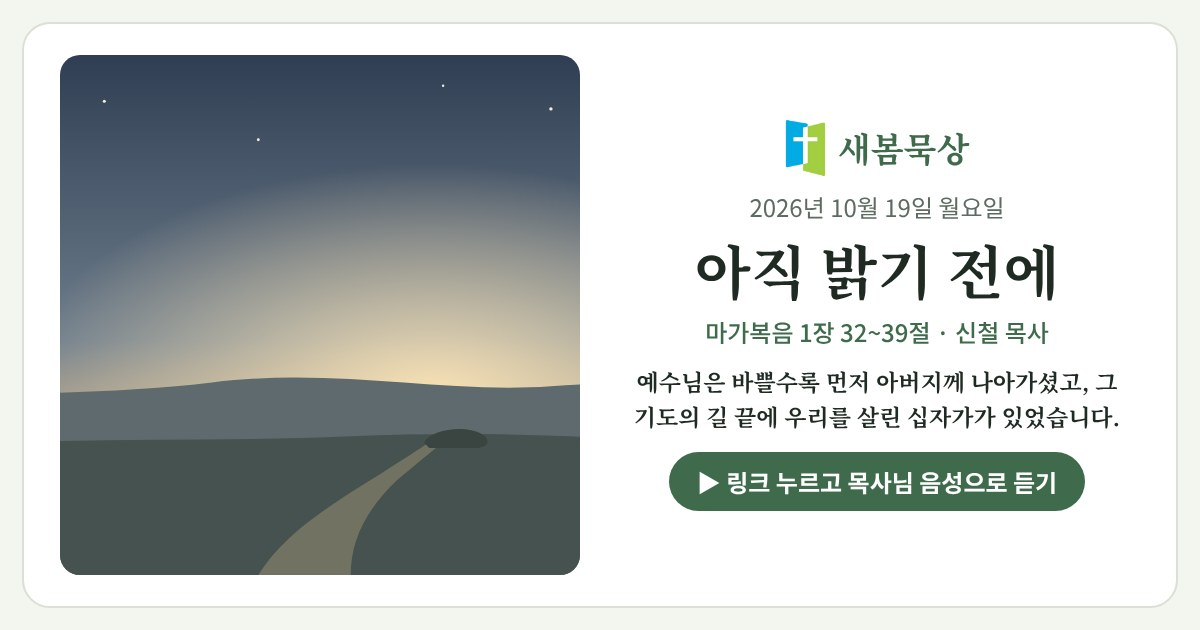
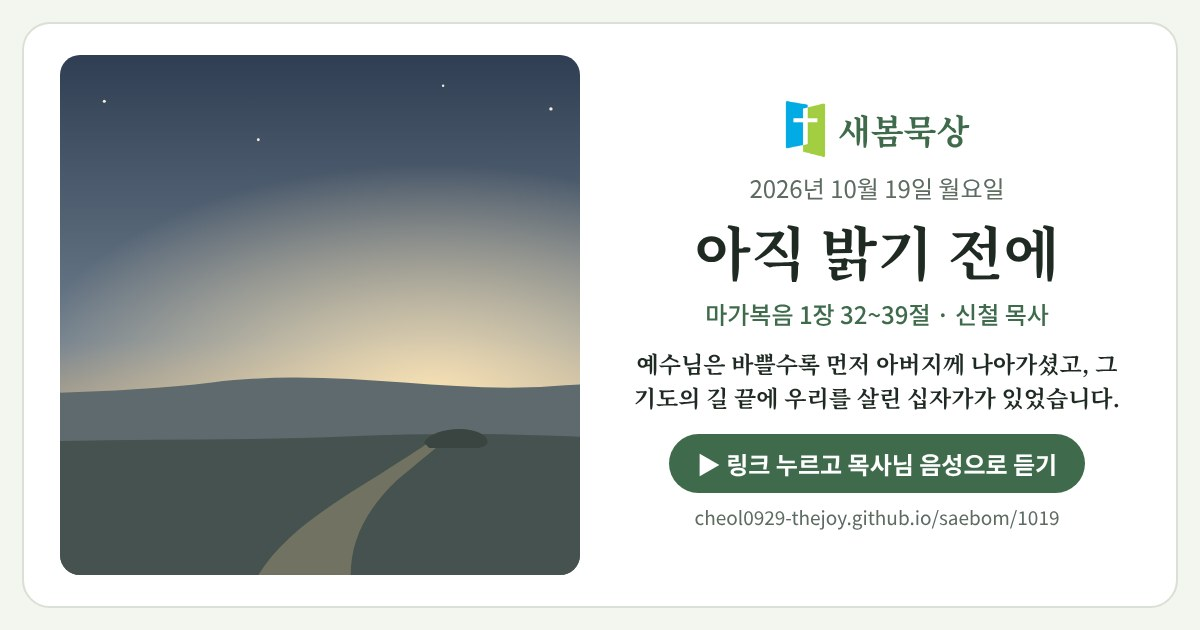
미리보기 글자 줄이고 카드에 주소 표시
Claude-Session: https://claude.ai/code/session_015QLrzJ3eQQwXRfgxaMfB7k

Changed region(s): [[0.5242, 0.1508, 0.925, 0.8444]]

diff --git a/1020.html b/1020.html
@@ -1,11 +1,9 @@
 <!doctype html><html lang="ko"><head><meta charset="utf-8">
 <meta name="viewport" content="width=device-width,initial-scale=1">
-<title>새봄묵상 · 그러나 나는 (10.20)</title>
-<meta name="description" content="2026년 10월 20일 화요일 하박국 3장 16~19절 · 모든 것이 없을지라도 기뻐할 수 있는 이유는, 십자가로 나를 붙드신 하나님은 결코 없어지지 않으시기 때문입니다.">
+<title>새봄묵상 10.20</title>
 <meta property="og:type" content="article">
 <meta property="og:site_name" content="새봄묵상">
-<meta property="og:title" content="새봄묵상 · 그러나 나는 (10.20)">
-<meta property="og:description" content="2026년 10월 20일 화요일 하박국 3장 16~19절 · 모든 것이 없을지라도 기뻐할 수 있는 이유는, 십자가로 나를 붙드신 하나님은 결코 없어지지 않으시기 때문입니다.">
+<meta property="og:title" content="새봄묵상 10.20">
 <meta property="og:image" content="https://cheol0929-thejoy.github.io/saebom/1020/share.jpg">
 <meta property="og:image:secure_url" content="https://cheol0929-thejoy.github.io/saebom/1020/share.jpg">
 <meta property="og:image:type" content="image/jpeg">

diff --git a/1020/index.html b/1020/index.html
@@ -1,11 +1,9 @@
 <!doctype html><html lang="ko"><head><meta charset="utf-8">
 <meta name="viewport" content="width=device-width,initial-scale=1">
-<title>새봄묵상 · 그러나 나는 (10.20)</title>
-<meta name="description" content="2026년 10월 20일 화요일 하박국 3장 16~19절 · 모든 것이 없을지라도 기뻐할 수 있는 이유는, 십자가로 나를 붙드신 하나님은 결코 없어지지 않으시기 때문입니다.">
+<title>새봄묵상 10.20</title>
 <meta property="og:type" content="article">
 <meta property="og:site_name" content="새봄묵상">
-<meta property="og:title" content="새봄묵상 · 그러나 나는 (10.20)">
-<meta property="og:description" content="2026년 10월 20일 화요일 하박국 3장 16~19절 · 모든 것이 없을지라도 기뻐할 수 있는 이유는, 십자가로 나를 붙드신 하나님은 결코 없어지지 않으시기 때문입니다.">
+<meta property="og:title" content="새봄묵상 10.20">
 <meta property="og:image" content="https://cheol0929-thejoy.github.io/saebom/1020/share.jpg">
 <meta property="og:image:secure_url" content="https://cheol0929-thejoy.github.io/saebom/1020/share.jpg">
 <meta property="og:image:type" content="image/jpeg">

diff --git a/1019.html b/1019.html
@@ -1,11 +1,9 @@
 <!doctype html><html lang="ko"><head><meta charset="utf-8">
 <meta name="viewport" content="width=device-width,initial-scale=1">
-<title>새봄묵상 · 아직 밝기 전에 (10.19)</title>
-<meta name="description" content="2026년 10월 19일 월요일 마가복음 1장 32~39절 · 예수님은 바쁠수록 먼저 아버지께 나아가셨고, 그 기도의 길 끝에 우리를 살린 십자가가 있었습니다.">
+<title>새봄묵상 10.19</title>
 <meta property="og:type" content="article">
 <meta property="og:site_name" content="새봄묵상">
-<meta property="og:title" content="새봄묵상 · 아직 밝기 전에 (10.19)">
-<meta property="og:description" content="2026년 10월 19일 월요일 마가복음 1장 32~39절 · 예수님은 바쁠수록 먼저 아버지께 나아가셨고, 그 기도의 길 끝에 우리를 살린 십자가가 있었습니다.">
+<meta property="og:title" content="새봄묵상 10.19">
 <meta property="og:image" content="https://cheol0929-thejoy.github.io/saebom/1019/share.jpg">
 <meta property="og:image:secure_url" content="https://cheol0929-thejoy.github.io/saebom/1019/share.jpg">
 <meta property="og:image:type" content="image/jpeg">

diff --git a/1019/index.html b/1019/index.html
@@ -1,11 +1,9 @@
 <!doctype html><html lang="ko"><head><meta charset="utf-8">
 <meta name="viewport" content="width=device-width,initial-scale=1">
-<title>새봄묵상 · 아직 밝기 전에 (10.19)</title>
-<meta name="description" content="2026년 10월 19일 월요일 마가복음 1장 32~39절 · 예수님은 바쁠수록 먼저 아버지께 나아가셨고, 그 기도의 길 끝에 우리를 살린 십자가가 있었습니다.">
+<title>새봄묵상 10.19</title>
 <meta property="og:type" content="article">
 <meta property="og:site_name" content="새봄묵상">
-<meta property="og:title" content="새봄묵상 · 아직 밝기 전에 (10.19)">
-<meta property="og:description" content="2026년 10월 19일 월요일 마가복음 1장 32~39절 · 예수님은 바쁠수록 먼저 아버지께 나아가셨고, 그 기도의 길 끝에 우리를 살린 십자가가 있었습니다.">
+<meta property="og:title" content="새봄묵상 10.19">
 <meta property="og:image" content="https://cheol0929-thejoy.github.io/saebom/1019/share.jpg">
 <meta property="og:image:secure_url" content="https://cheol0929-thejoy.github.io/saebom/1019/share.jpg">
 <meta property="og:image:type" content="image/jpeg">

diff --git a/1019e.html b/1019e.html
@@ -1,0 +1,14 @@
+<!doctype html><html lang="ko"><head><meta charset="utf-8">
+<meta name="viewport" content="width=device-width,initial-scale=1">
+<title>새봄묵상 10.19</title>
+<meta property="og:type" content="article">
+<meta property="og:site_name" content="새봄묵상">
+<meta property="og:title" content="새봄묵상 10.19">
+<meta property="og:image" content="https://cheol0929-thejoy.github.io/saebom/1019/share.jpg">
+<meta property="og:image:secure_url" content="https://cheol0929-thejoy.github.io/saebom/1019/share.jpg">
+<meta property="og:image:type" content="image/jpeg">
+<meta property="og:image:width" content="1200"><meta property="og:image:height" content="630">
+<meta name="twitter:card" content="summary_large_image">
+<style>body{font-family:sans-serif;text-align:center;padding:40px 16px;background:#F3F5EF;color:#1F2A22}a{color:#3F6B4C;font-size:20px}</style>
+</head><body><p>새봄묵상으로 이동합니다…</p><p><a href="https://claude.ai/artifact/83acT3uNMUC3NGidY5284F#d20261019">바로 가기</a></p>
+<script>setTimeout(function(){location.replace("https://claude.ai/artifact/83acT3uNMUC3NGidY5284F#d20261019");},300);</script></body></html>
